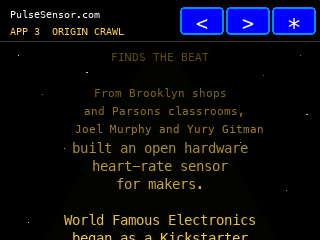
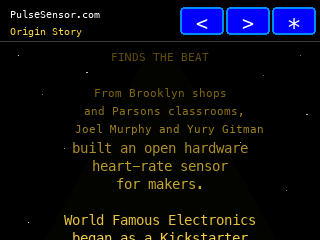
Rename App 3 Origin Story 20260524-091717-EDT

Changed region(s): [[0.0312, 0.1167, 0.375, 0.1458]]

diff --git a/tools/render_app3_origin_crawl_mock.py b/tools/render_app3_origin_crawl_mock.py
@@ -110,7 +110,7 @@ def draw_header(draw, width, title):
     draw.rectangle((0, 0, width, 42), fill=BLACK)
     draw.line((0, 41, width, 41), fill=GRID)
     draw.text((10, 8), title, font=FONT_1, fill=WHITE)
-    draw.text((10, 25), "APP 3  ORIGIN CRAWL", font=FONT_1, fill=GOLD)
+    draw.text((10, 25), "Origin Story", font=FONT_1, fill=GOLD)
     draw_nav(draw, width, 7)
 
 
@@ -134,7 +134,7 @@ def draw_title_card(draw, width, height):
     draw_centered(draw, "ORIGIN STORY", 0, 112, width, FONT_2, GOLD)
     draw_centered(draw, "open hardware", 0, 152, width, FONT_1, WHITE)
     draw_centered(draw, "heart-rate sensing for makers", 0, 168, width, FONT_1, WHITE)
-    draw_centered(draw, "mock App 3 crawl", 0, 206, width, FONT_1, GOLD_DIM)
+    draw_centered(draw, "mock Origin Story crawl", 0, 206, width, FONT_1, GOLD_DIM)
 
 
 def draw_crawl(draw, width, height, offset, frame):

diff --git a/tools/check_app_shell.py b/tools/check_app_shell.py
@@ -107,6 +107,7 @@ required_large_controls = {
     "APP3_CRAWL_FANFARE_LOOP_MS 15000": "App 3 fanfare loop is not tracked as a 15-second loop",
     "drawApp3OriginCrawl": "App 3 origin crawl renderer is missing",
     "APP3_ORIGIN_CRAWL_LINE_COUNT": "App 3 origin crawl copy is missing",
+    "Origin Story": "App 3 is not labeled Origin Story",
     "Send us your feature requests,": "App 3 origin crawl is missing the feature-request ask",
 }
 for token, message in required_large_controls.items():

diff --git a/CODEX_HANDOFF.md b/CODEX_HANDOFF.md
@@ -49,6 +49,8 @@ The current branch wraps the one-screen Pulse dashboard in a small app shell:
 
 2026-05-24 09:15:15 EDT App 3 firmware pass: replaced the on-device App 3 bouncing placeholder with the firmware-rendered PulseSensor origin crawl over a black starfield. The crawl includes the feature-request / firmware-update ask and thanks supporters since 2012. The App 3 fanfare was expanded from a short loop to a tracked 15-second programmatic loop. Guard script now asserts the real App 3 crawl renderer and 15-second loop tracking.
 
+2026-05-24 09:17:17 EDT naming pass: App 3 is now visibly titled `Origin Story` on-device and in the mockup renderer, preserving the science-fiction crawl direction while making the app identity clearer.
+
 2026-05-24 continuation: the compact toolbar hit testing was tuned for real CYD touch ergonomics. App nav and rotate still look grouped, but their padded tap regions are now split at the midpoint between adjacent button centers, preventing the previous overlap where taps near rotate could be claimed by Settings or taps near nav boundaries could choose the earlier button. The same midpoint approach is used for the Settings color swatches.
 
 Follow-up hardware pass: the visible app-nav and rotate controls were enlarged from 22x22 to 44x28 for easier large-finger touch. Landscape moves the heart left to avoid the wider toolbar; portrait uses a taller header so the toolbar, title, coach text, and heart do not collide.

diff --git a/START_HERE_NEXT_CHAT.md b/START_HERE_NEXT_CHAT.md
@@ -41,6 +41,8 @@ The branch adds an app shell around the Pulse dashboard:
 
 2026-05-24 09:15:15 EDT App 3 firmware pass: App 3 no longer renders the bouncing `your app here too` placeholder. It now renders a black starfield and scrolling PulseSensor origin crawl directly in firmware, including the feature-request / firmware-update ask and the since-2012 thank-you. The App 3 fanfare table was extended to a tracked 15-second loop. This was built and flashed for hardware review.
 
+2026-05-24 09:17:17 EDT naming pass: App 3's visible title is now `Origin Story` on-device and in the mockup renderer, keeping the science-fiction crawl theme while making the app name clearer.
+
 2026-05-24 hardware note: the app-shell firmware was built and flashed to `/dev/cu.usbserial-3120` on the connected ESP32-D0WD-V3 CYD, MAC `f4:65:0b:a9:f2:e8`. Touch ergonomics fixes changed compact toolbar routing to split adjacent app-nav/rotate hit targets at their midpoints, enlarged the visible app-nav and rotate controls from 22x22 to 44x28, converted Settings to a scrollable large-text row list with bigger row-local touch controls, widened Settings bottom scroll buttons to split the full bottom bar, changed Settings rows to alternating yellow/green Pulse dashboard backgrounds with black text, and redesigned App 1 metric tiles to use the same yellow/green high-contrast language.
 
 ## Use This Repo And Branch

diff --git a/CHANGELOG.md b/CHANGELOG.md
@@ -1,6 +1,7 @@
 # CYD App Launcher — Student Version — Changelog
 
 ## Unreleased
+- 2026-05-24 09:17:17 EDT App 3 naming pass: changed the on-device and mockup title from `APP 3 ORIGIN CRAWL` to `Origin Story` to fit the science-fiction app theme.
 - 2026-05-24 09:15:15 EDT App 3 origin-crawl firmware pass: replaced App 3's bouncing placeholder on-device with a black starfield and scrolling PulseSensor origin crawl, extended the original CYD speaker fanfare to a tracked 15-second loop, and bumped firmware version to `0.4.3-app3-crawl`.
 - 2026-05-24 09:08:58 EDT App 3 origin-crawl mockup: added a closing ask for feature requests, firmware update ideas, and classroom wishes, plus a thank-you for supporting PulseSensor since 2012.
 - 2026-05-24 09:06:39 EDT App 3 origin-crawl branch: added an original programmatic CYD speaker fanfare for App 3, with a short heroic title sting and looping digital arpeggio scaled by Settings volume, and bumped firmware version to `0.4.2-app3-fanfare` for hardware listening.
